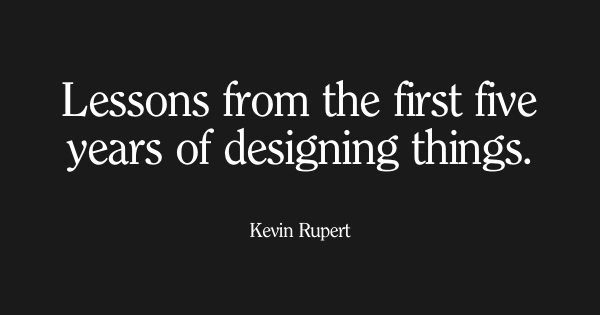
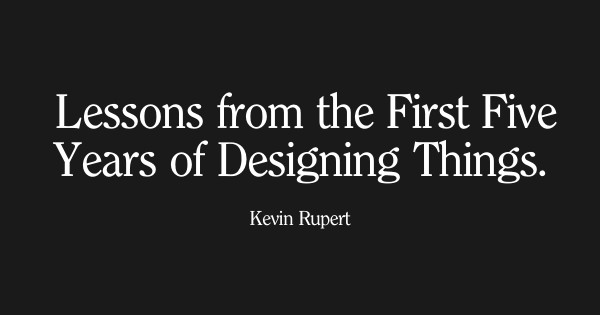
Tweaks.

Changed region(s): [[0.09, 0.2571, 0.93, 0.6], [0.42, 0.6571, 0.6, 0.7714]]

diff --git a/index.html b/index.html
@@ -9,18 +9,18 @@
 
       gtag('config', 'UA-47023192-2');
     </script>
-    <title> Lessons From the First Five Years of Designing Things | Kevin Rupert</title>
+    <title> Lessons from the First Five Years of Designing Things | Kevin Rupert</title>
     <meta charset="utf-8">
     <meta name="viewport" content="width=device-width, initial-scale=1.0">
     <meta name="description" content="Kevin is a multi-disciplinary designer who specializes in experiences for every screen.">
     <!-- Facebook Share -->
     <meta property="og:url" content="https://kevvy.digital" />
-    <meta property="og:title" content=" Lessons From the First Five Years of Designing Things." />
+    <meta property="og:title" content=" Lessons from the First Five Years of Designing Things." />
     <meta property="og:image" content="https://kevvy.digital/assets/imgs/facebook-share.png" />
     <!-- Twitter Share -->
     <meta name="twitter:card" content="summary_large_image" />
     <meta name="twitter:site" content="@kevinrupert" />
-    <meta name="twitter:title" content=" Lessons From the First Five Years of Designing Things." />
+    <meta name="twitter:title" content=" Lessons from the First Five Years of Designing Things." />
     <meta name="twitter:image" content="https:/kevvy.digital/assets/imgs/twitter-share.png" />
     <link href="assets/imgs/favicon.ico" rel="shortcut icon" type="image/vnd.microsoft.icon">
     <link href="assets/style/css/main.css" media="all" rel="stylesheet">
@@ -28,7 +28,7 @@
   <body>
 
     <header>
-      <h1 class="title-2 animate-fade"> Lessons From the First Five Years of Designing Things.</h1>
+      <h1 class="title-2 animate-fade"> Lessons from the First Five Years of Designing Things.</h1>
     </header>
 
     <div class="lesson first animaton-group">
